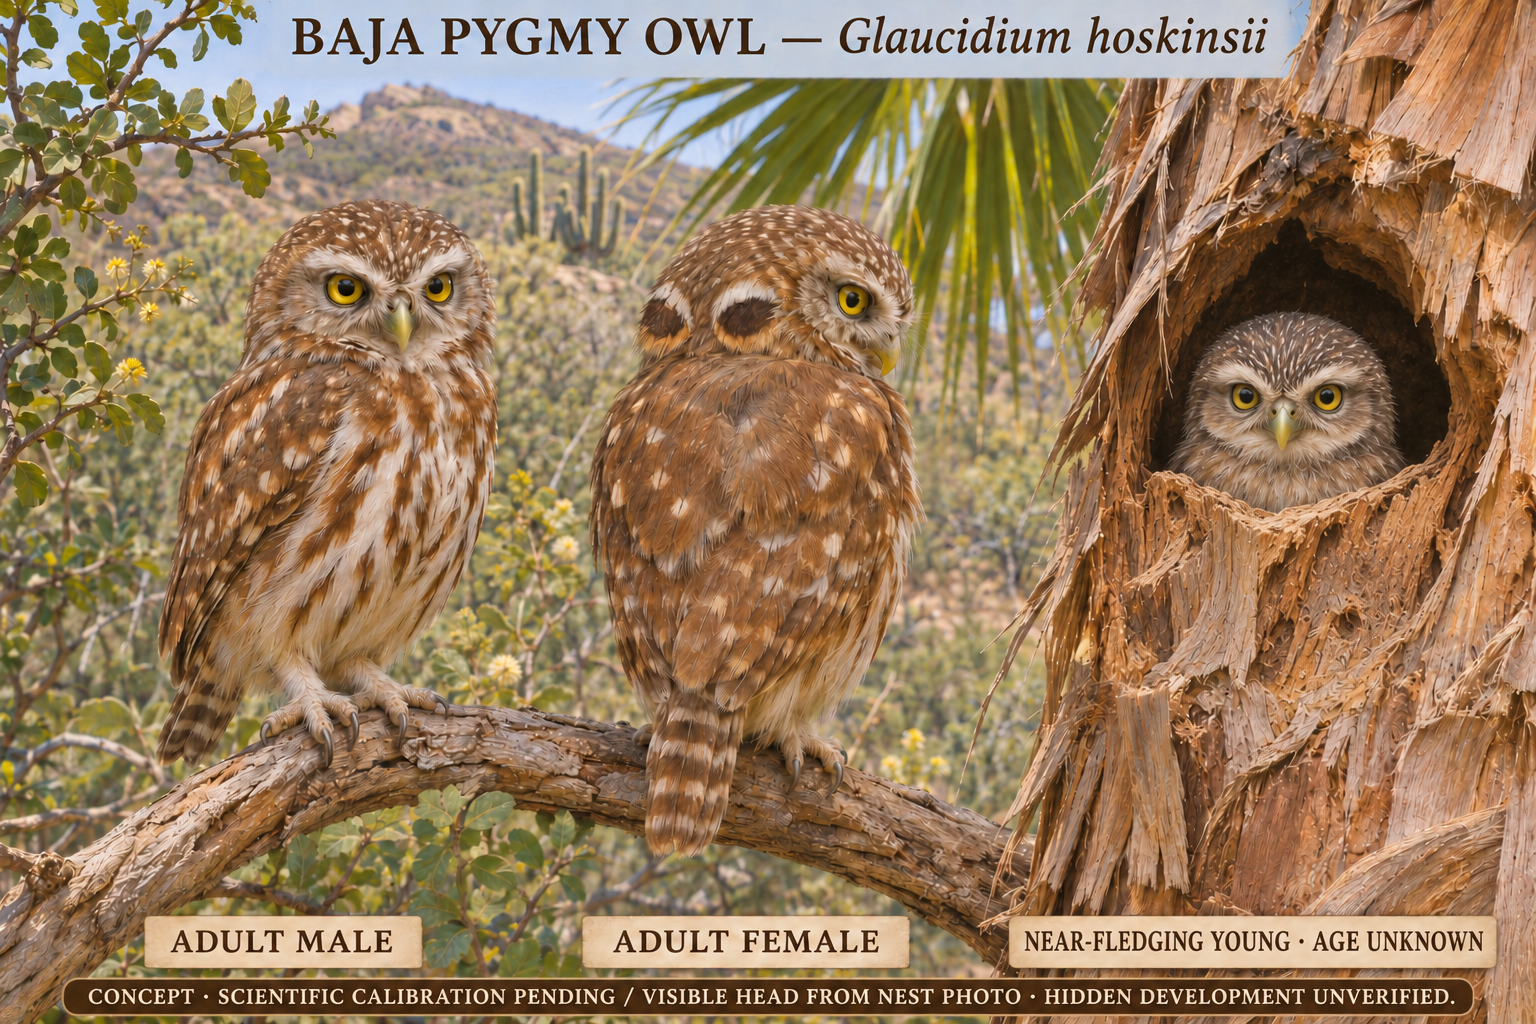
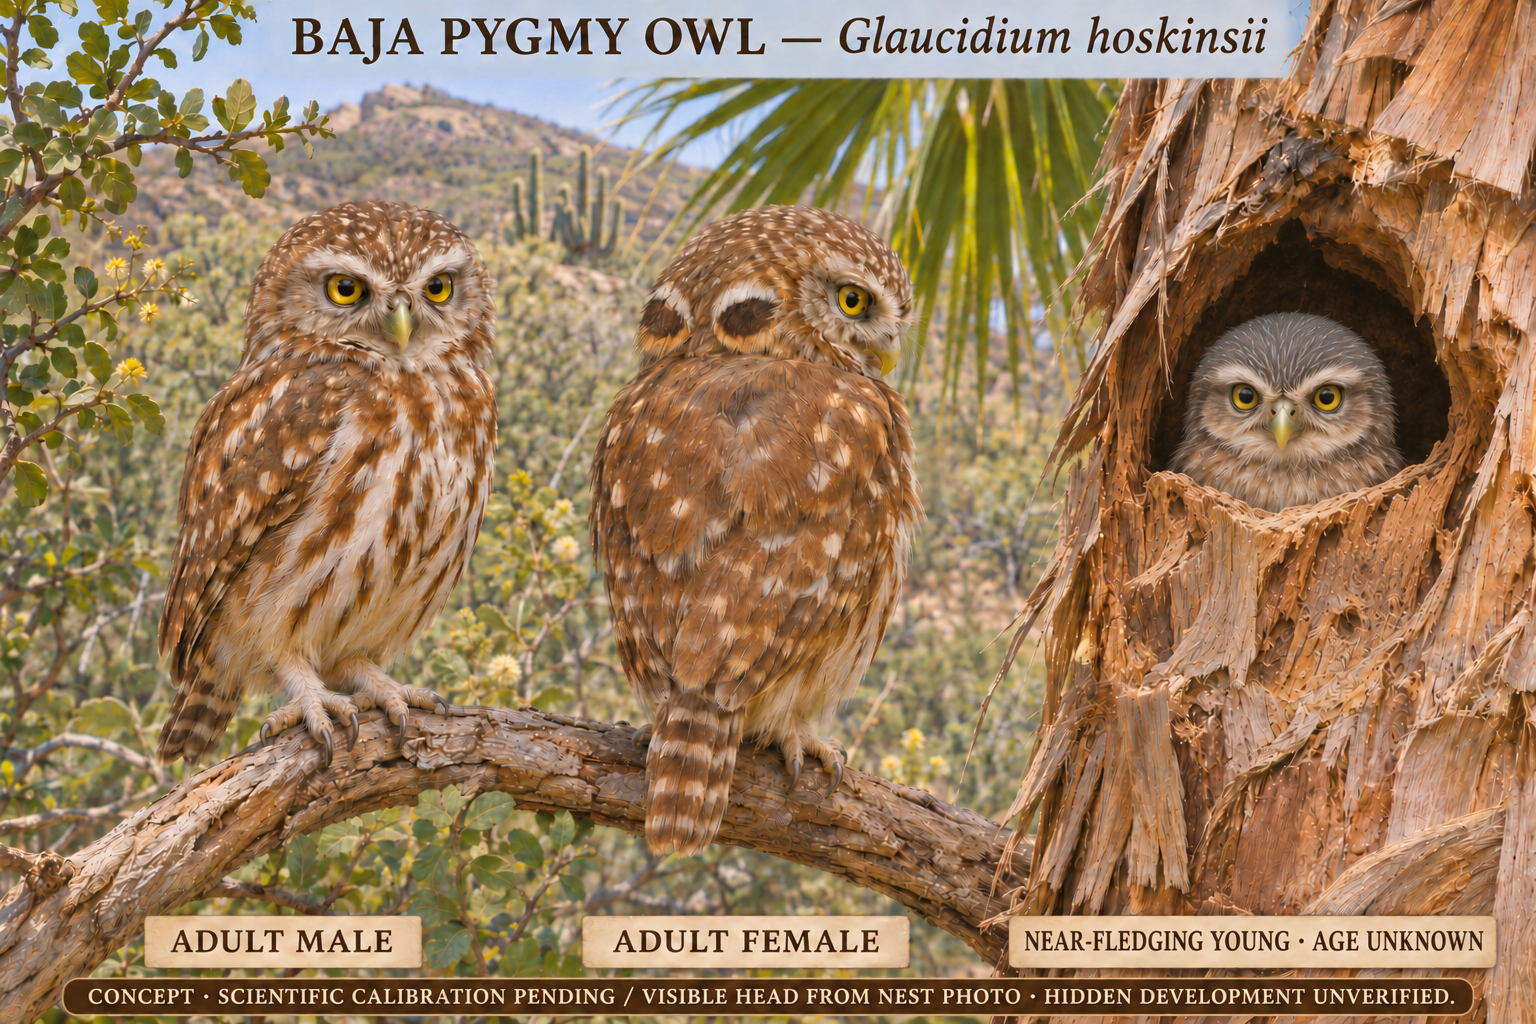
owl-pet: persist generated 162-glaucidium-hoskinsii-v4

diff --git a/owl-pet/production/runs/20261124T0831Z-cycle6.md b/owl-pet/production/runs/20261124T0831Z-cycle6.md
@@ -6,3 +6,8 @@ RESEARCH_READY 2026-11-24T08:58:51.089Z: 162-glaucidium-hoskinsii-v4; sourcecoun
 RESUMED 2026-11-24T09:31:35.099Z: expiredlease09:14checkedagainstmain5568bf0; completed5/6,next6 unchanged, nooriginal162v4remote/manifest. Localbuiltinoriginal recovered3046834bytes/SHA2563314fe9afd149ab2c735d64f732d44821320be5a6bffb9695e742bcdda84543f. Priorattemptgeneratedbefore17:00read-onlyrequest interrupted archival;17:02validlease skipped, notbackgrounddrawing. Reuse persisted RESEARCH_READY/species/prompt/sourceindex and actual researchfromsamecycle, do not regenerate. FreshpreflightreadAGENTS/README/STATUS/designREADME/manifest/sourceindex/recovery/executionoptions/currenttree5824nontruncated. #25remotealreadyarchived/fd9d70duncredited, no rebuild. Stage image/review/archive/verify stillpending here.
 
[1 lines of base64/hex data omitted]
+
+EDIT 2026-11-24T09:32:49.014Z → 2026-11-24T09:33:29.748Z: recoveredbrown/spottedyoungcrowncomparedagainstactualFig1greyhead; localcrowntextureedit. Recoveredoriginalarchived d15efb08c8686c00f9a4153ac75e3908c0f187fd production/artifacts/20261124T0831Z/162-recovered-initial.png. Fullprompt:
+Edit ONLY HEAD CROWN/FOREHEAD PLUMAGE OF THE YOUNG RIGHT-HAND BIRD peeking from palm cavity in thisexisting162BajaPygmyOwlconcept. Source2025nestphoto shows GREY SLATE/ASHY crown with fine soft pale linear feathertexture, not brown adult-like crown with conspicuous round white dots. Make youngcrown/forehead distinctlycoolGREY, remove/reducebrightwhiteroundspots into subtlefinepalelinearstreaks, keepwhitebrows/cheeks/yellowirides/darkpupils/palegreenishhornbill and exactheadsize/pose/neckconnection. Do noteditadults,nape falseeyes,forest,palmocclusion,hiddenyoungbody,rolelabels/footerorotherparts. Same1536x1024tactilesemi-realistic3Dstyle. Preservealladultfeathercolour/supports; noextraheads/feet/text/watermark. Photographicfeathertexture onlyonvisibleyounghead, no newhiddenwing/feetdetail.
+
[1 lines of base64/hex data omitted]
